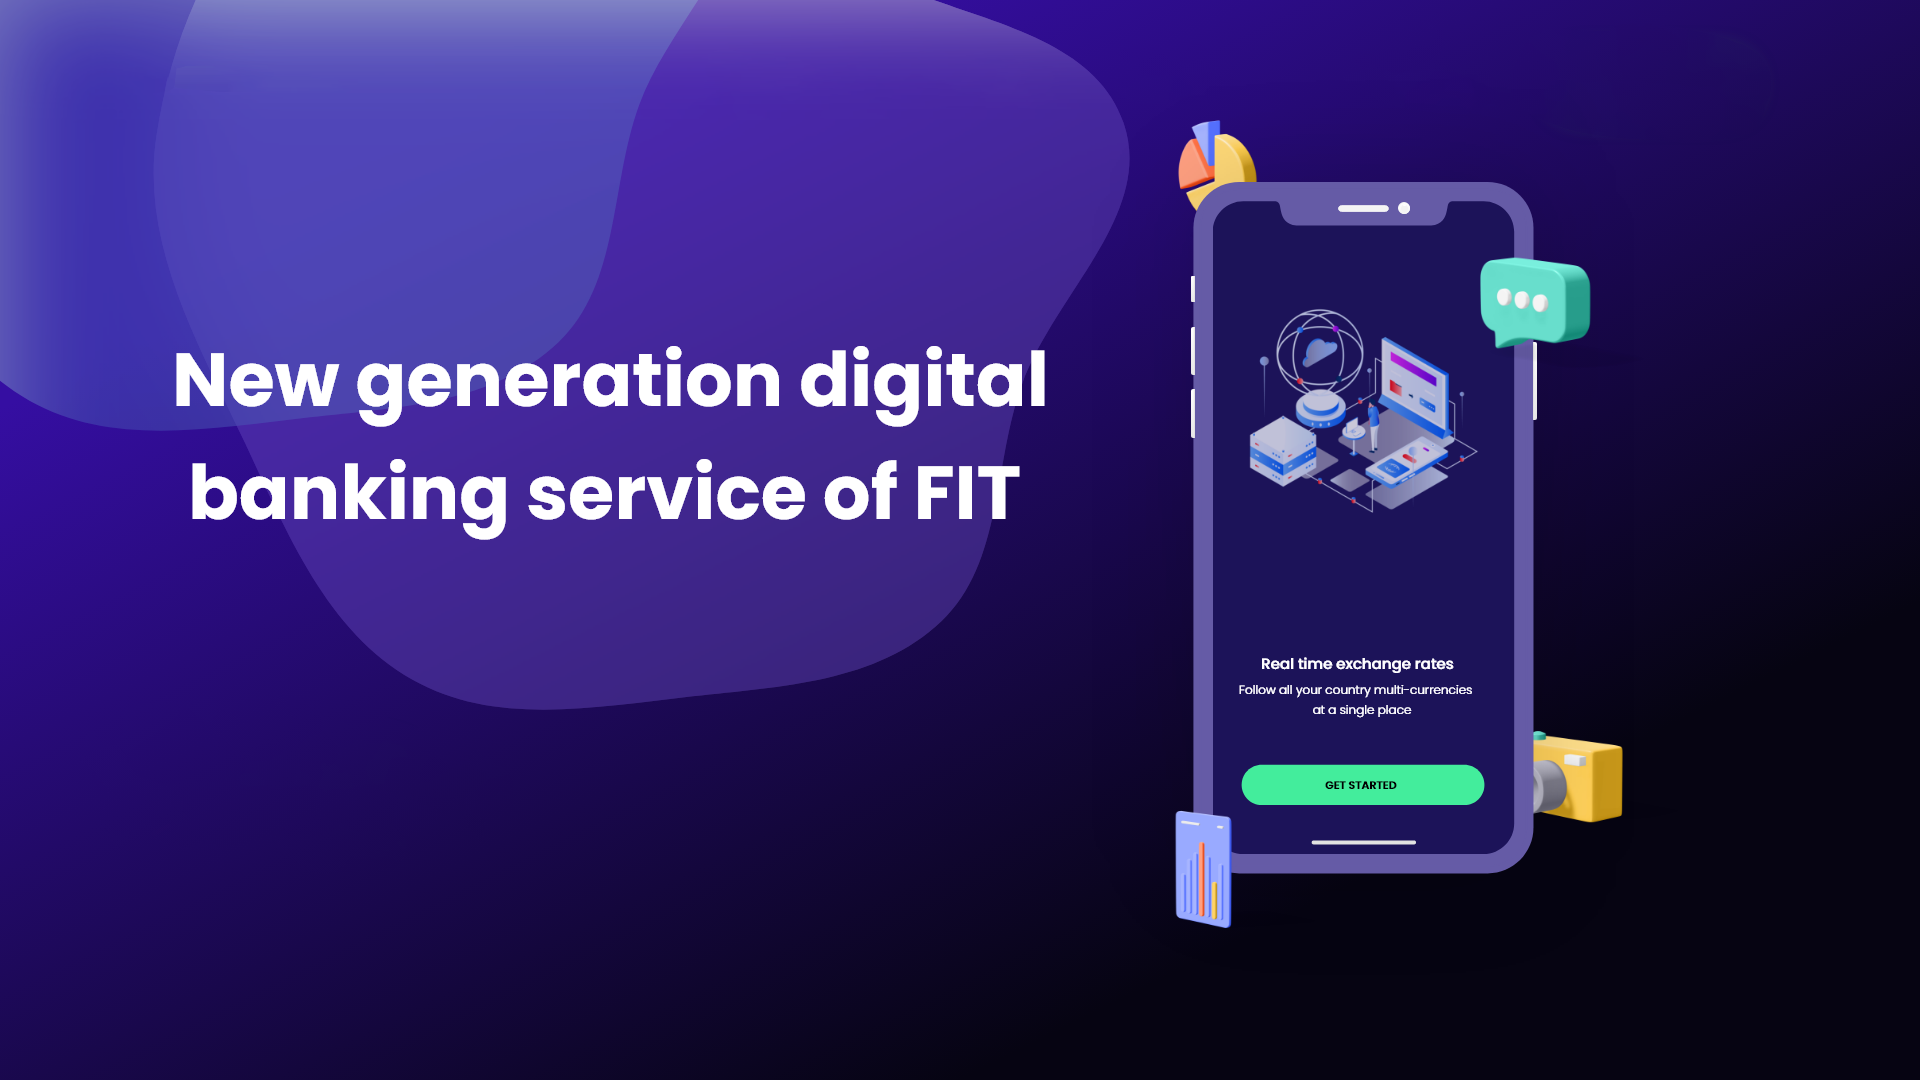
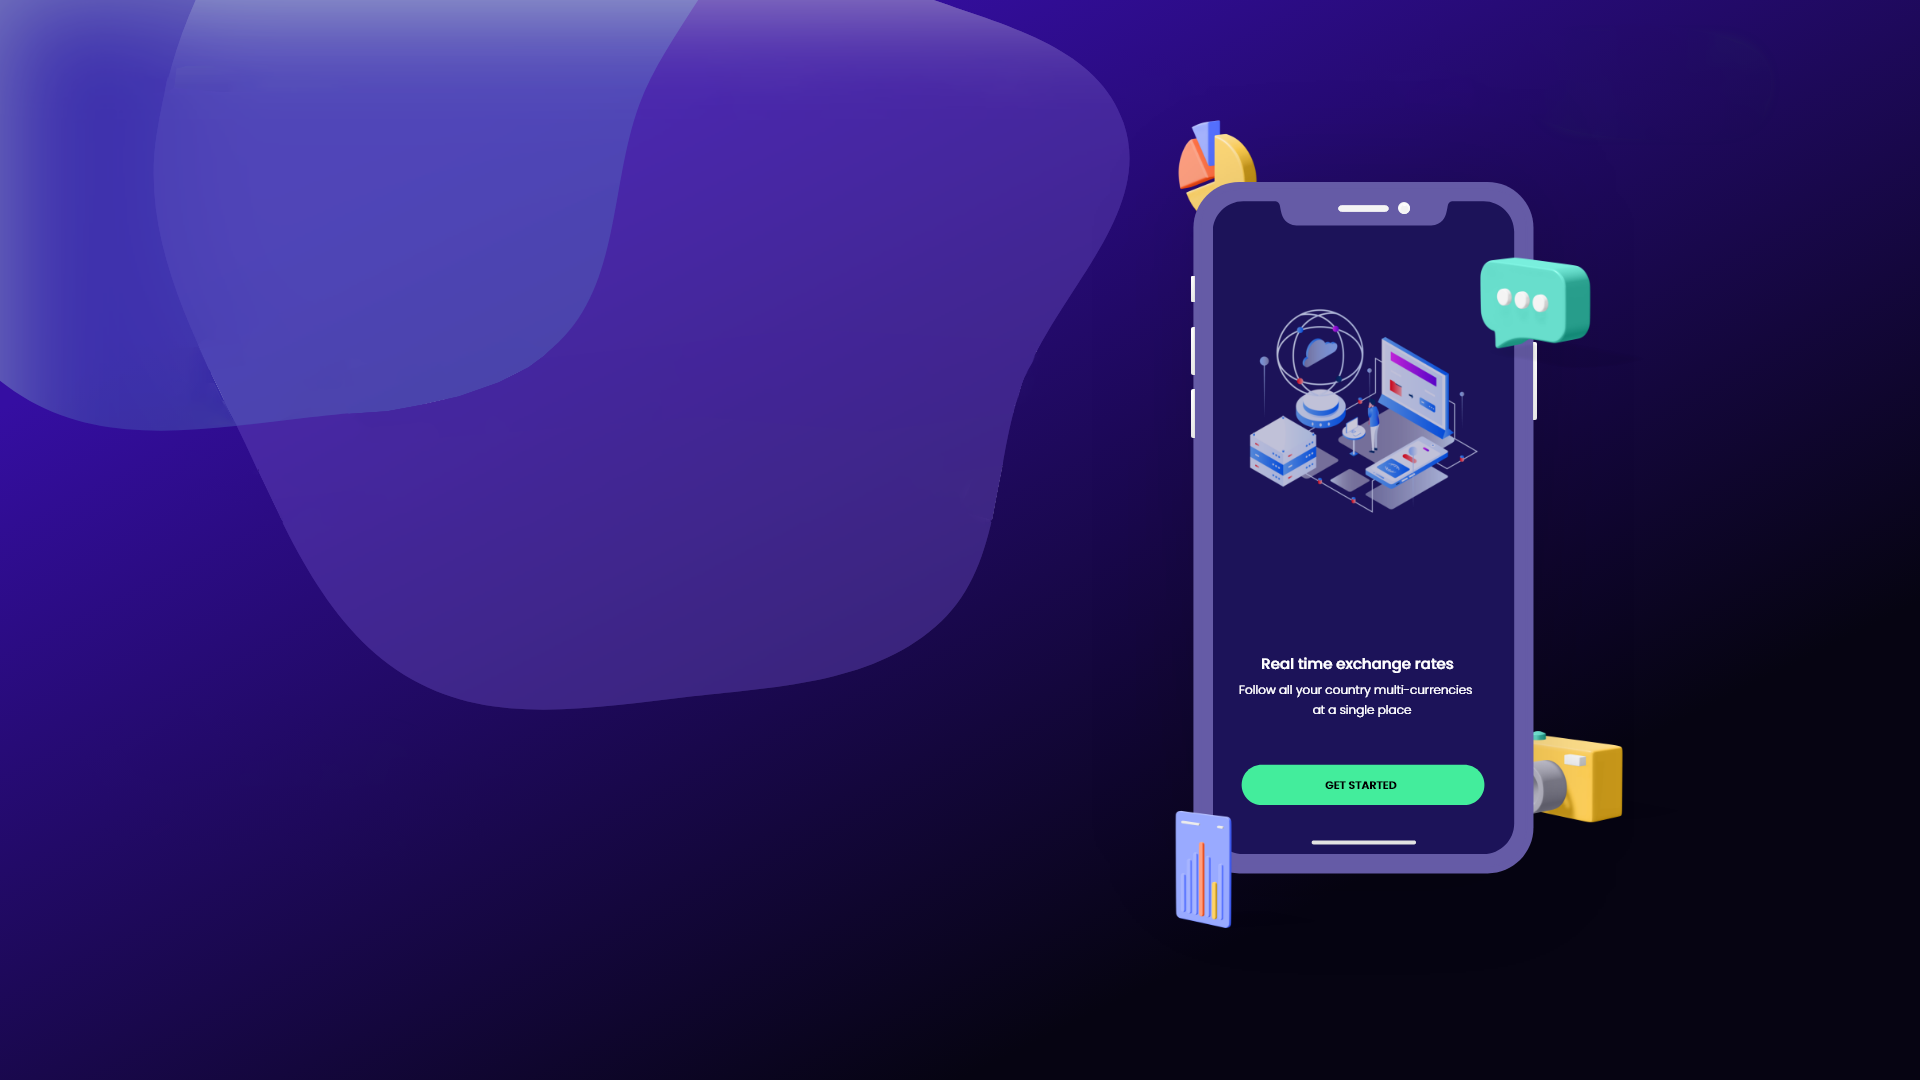
chinh file homepage.html

Changed region(s): [[0.0938, 0.3056, 0.5625, 0.3972], [0.0938, 0.4278, 0.5312, 0.5194]]

diff --git a/src/main/resources/templates/HomePage.html b/src/main/resources/templates/HomePage.html
@@ -4,44 +4,92 @@
 <head>
     <meta charset="UTF-8">
     <title>Home Page</title>
-    <link href="https://cdn.jsdelivr.net/npm/bootstrap@5.1.3/dist/css/bootstrap.min.css"
-          rel="stylesheet" integrity="sha384-1BmE4kWBq78iYhFldvKuhfTAU6auU8tT94WrHftjDbrCEXSU1oBoqyl2QvZ6jIW3"
-          crossorigin="anonymous">
+    <link href="../static/css/style.css" th:href="@{../static/css/style.css}" rel="stylesheet"/>
+    <!--    <link href="https://cdn.jsdelivr.net/npm/bootstrap@5.1.3/dist/css/bootstrap.min.css"-->
+    <!--          rel="stylesheet" integrity="sha384-1BmE4kWBq78iYhFldvKuhfTAU6auU8tT94WrHftjDbrCEXSU1oBoqyl2QvZ6jIW3"-->
+    <!--          crossorigin="anonymous">-->
+
 </head>
 
 <style>
+
     html {
-        background: url("../static/images/HomeNoText.png") no-repeat center center;
+        /*background-image: linear-gradient(to bottom right, #350EA2, #08020E);*/
+        background-image: url("../static/images/HomeNoText.png");
         background-size: cover;
+        background-repeat: no-repeat;
         height: 100%;
     }
 
     #registerBtn {
-        font-family: Verdana;
+        font-family: sans-serif;
         font-weight: bold;
-        font-size: 20px;
-        padding: 7px 15px 7px 15px;
+        font-size: 17px;
+        padding: 10px 20px 10px 20px;
         border-radius: 25px;
         border: none;
         background-color: #05F63A;
     }
 
     #loginBtn {
-        font-family: Verdana;
+        font-family: sans-serif;
         font-weight: bold;
-        font-size: 20px;
+        font-size: 17px;
         color: aliceblue;
-        padding: 7px 15px 7px 15px;
+        padding: 10px 20px 10px 20px;
         border-radius: 25px;
         border: none;
         background-color: transparent;
     }
+
+    .fitICO{
+        float: left;
+        font-family: sans-serif;
+        font-weight: bold;
+        font-size: 17px;
+        margin: 30px 15px 15px 60px;
+    }
+
+    #fitSmart{
+        color: aliceblue;
+    }
+
+    #ico{
+        color: #05F63A;
+    }
+
+    #greeting{
+        float: left;
+        font-family: sans-serif;
+        float: left;
+        text-align: center;
+        font-size: 70px;
+        font-weight: bold;
+        color: aliceblue;
+        line-height: 1.5;
+        width: 55%;
+        margin: 220px 0 0 -240px;
+    }
+
+    #signUpBtn {
+        font-family: sans-serif;
+        font-weight: bold;
+        font-size: 20px;
+        color: #05F63A;
+        margin: 22em 0em 0em -40em;
+        padding: 10px 20px 10px 20px;
+        border-radius: 25px;
+        border: none;
+        background-color: transparent;
+    }
+
 </style>
 
 <body>
+
 <div>
     <form style="float: right;
-                     margin: 15px 50px 15px 15px;"
+                     margin: 15px 60px 15px 15px;"
           th:action="@{/register}" method="POST">
         <p>
             <input id="registerBtn" type="submit" value="Register"/>
@@ -53,6 +101,25 @@
           th:action="@{/login}" method="POST">
         <p>
             <input id="loginBtn" type="submit" value="Login"/>
+        </p>
+    </form>
+
+</div>
+
+<div class="fitICO">
+    <a id="fitSmart">FIT SMART BANKING</a>
+    <a id="ico">ICO</a>
+</div>
+
+<div>
+    <p id="greeting">New generation digital banking service of FIT</p>
+</div>
+
+<div>
+    <form style="float: left;"
+          th:action="@{/register}" method="POST">
+        <p>
+            <input id="signUpBtn" type="submit" value="Sign Up Now →"/>
         </p>
     </form>
 </div>

diff --git a/src/main/resources/static/css/style.css b/src/main/resources/static/css/style.css
@@ -7,12 +7,8 @@
 }
 
 /*  HomePage  HomePage  HomePage  HomePage  HomePage  HomePage  HomePage  HomePage  HomePage  HomePage  HomePage  HomePage*/
+/*#registerBtn{*/
+/*}*/
 
-.actionBtn {
-    text-align: center;
-    font-size: 100px;
-}
-
-#registerBtn, #loginBtn {
-font-size: 100px;
-}
+/*#loginBtn {*/
+/*}*/
